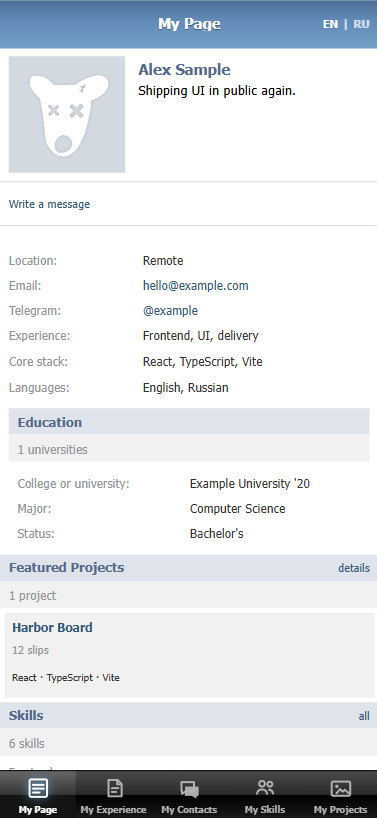
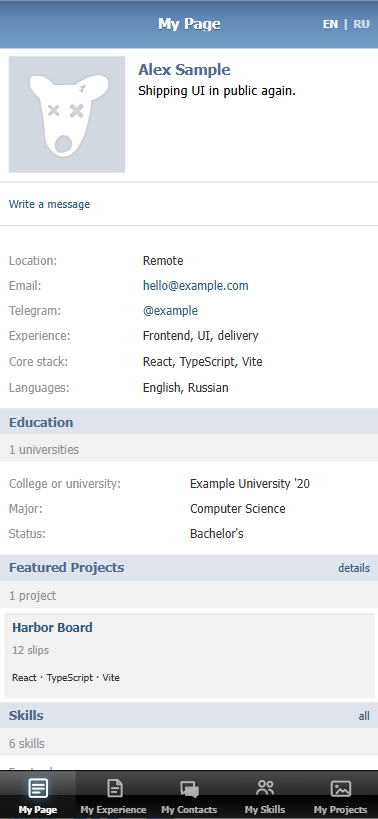
fix: minor layout fixes

diff --git a/src/components/organisms/ResumeStackSection/ResumeStackSection.tsx b/src/components/organisms/ResumeStackSection/ResumeStackSection.tsx
@@ -39,7 +39,7 @@ function SkillFriendsGrid({
     <div
       className={
         compact
-          ? 'grid grid-cols-[repeat(3,50px)] max-vk:grid-cols-[repeat(auto-fill,50px)] gap-x-[15px] gap-y-1 mb-0.5 pt-1 items-start justify-center max-vk:justify-start max-vk:px-2'
+          ? 'grid grid-cols-[repeat(3,50px)] max-vk:grid-cols-[repeat(auto-fill,50px)] gap-x-[15px] gap-y-1 pt-1 pb-2 items-start justify-center max-vk:justify-start max-vk:px-2'
           : 'grid grid-cols-[repeat(auto-fill,50px)] gap-x-[15px] gap-y-1 px-2 pt-1 pb-0.5 items-start justify-start'
       }
     >
@@ -85,7 +85,7 @@ export function ResumeStackSection({
 
   if (compact) {
     return (
-      <section>
+      <section className='pb-2'>
         <SectionHeader
           title={title ?? ''}
           count={interpolate(skillsCountTemplate, { count: total })}
@@ -107,7 +107,7 @@ export function ResumeStackSection({
   }
 
   return (
-    <section className='border-b border-vk-border'>
+    <section className='border-vk-border pb-2'>
       <SectionHeader
         title={title ?? ''}
         count={interpolate(skillsCountTemplate, { count: total })}

diff --git a/src/components/organisms/ResumeExperienceSection/ResumeExperienceSection.tsx b/src/components/organisms/ResumeExperienceSection/ResumeExperienceSection.tsx
@@ -45,7 +45,7 @@ function ExperienceCard({
       className={
         full
           ? 'flex gap-2.5 px-3 pt-3 pb-2.5 border-b border-vk-border-light'
-          : 'flex gap-2.5 pr-3 pt-2.5 pb-2 border-b border-vk-border-light'
+          : 'flex gap-2.5 pl-2 pr-3 pt-2.5 pb-2 border-b border-vk-border-light'
       }
     >
       <img
@@ -67,7 +67,7 @@ function ExperienceCard({
         <p className='m-0 mb-1.5 text-[13px] text-vk-text leading-[1.45]'>
           {entry.summary}
         </p>
-        <ul className='m-0 mb-1.5 list-disc list-outside pl-5 space-y-0.5 text-[12px] text-vk-text leading-[1.5] marker:text-vk-heading'>
+        <ul className='m-0 mb-1.5 list-disc list-outside pl-5 space-y-0.5 text-[12px] text-vk-text leading-normal marker:text-vk-heading'>
           {entry.highlights.map(highlight => (
             <li key={highlight}>{highlight}</li>
           ))}

diff --git a/src/pages/ResumePage/ResumePage.tsx b/src/pages/ResumePage/ResumePage.tsx
@@ -166,7 +166,7 @@ function ResumeHomeContent({
   ui: UiLabels
 }) {
   return (
-    <div className='px-2'>
+    <div className='px-2 max-vk:px-0'>
       <ProfileInfoPanel
         name={resume.user.name}
         status={resume.user.profileStatus}
@@ -177,7 +177,7 @@ function ResumeHomeContent({
         labels={ui.education}
         entries={resume.education}
       />
-      <div className='hidden -mx-2 max-vk:block'>
+      <div className='hidden max-vk:block'>
         <HomeSideRails resume={resume} ui={ui} />
       </div>
       <ResumeExperienceSection

diff --git a/src/components/organisms/ProfileInfoPanel/ProfileInfoPanel.tsx b/src/components/organisms/ProfileInfoPanel/ProfileInfoPanel.tsx
@@ -18,7 +18,7 @@ export function ProfileInfoPanel({
   const educationLabel = education[0]?.institution
 
   return (
-    <div className='pt-3 pb-2 border-b border-vk-border'>
+    <div className='pt-3 pb-2 border-b border-vk-border max-vk:px-2'>
       <div className='flex justify-between items-start mb-1 mr-auto max-vk:hidden'>
         <div className='text-left'>
           <div className='text-[13px] font-bold text-vk-heading leading-tight'>
